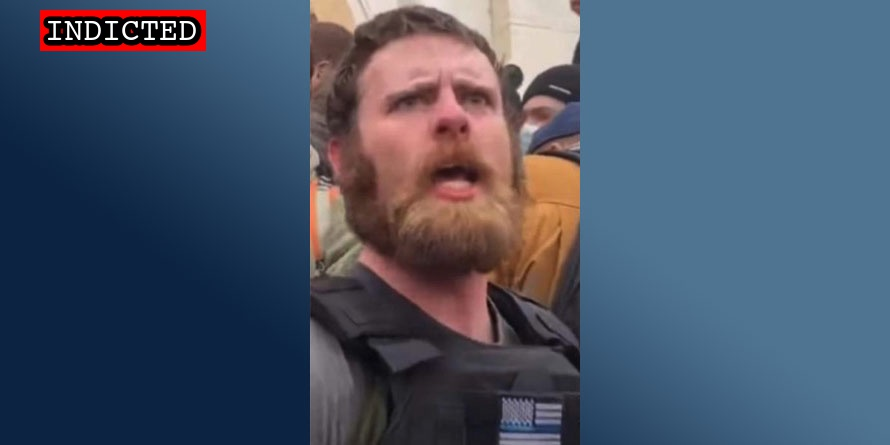
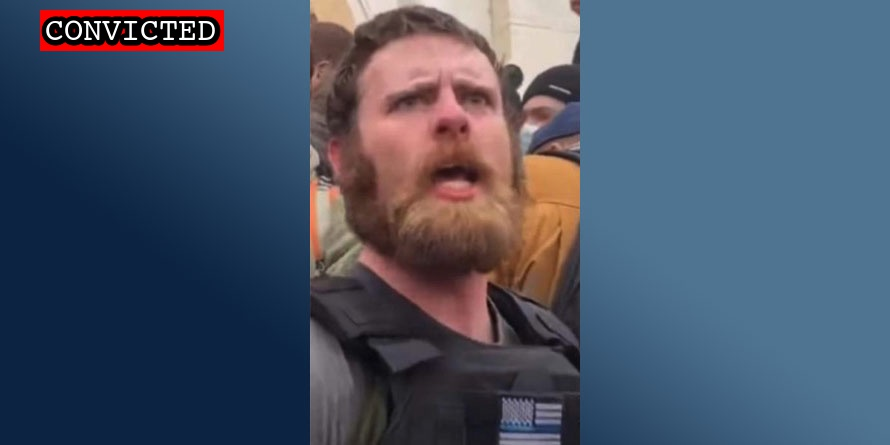
Latest import and sentencing info

Changed region(s): [[0.0303, 0.0, 0.273, 0.1169]]

diff --git a/docs/_suspects/william-reid.md b/docs/_suspects/william-reid.md
@@ -41,32 +41,31 @@ caseName: USA v. REID
 judge: Dabney L. Friedrich
 videos:
 charges:
-  - code: 18 USC § 1752(a)(1)
-    title: Entering a restricted building or grounds
-    url: https://www.law.cornell.edu/uscode/text/18/1752
-    felony: false
-  - code: 18 USC § 1752(a)(2)
-    title: Disorderly and disruptive conduct in a restricted building or grounds
-    url: https://www.law.cornell.edu/uscode/text/18/1752
-    felony: false
-  - code: 40 USC § 5104(e)(2)(D)
-    title: Disorderly Conduct in a Capitol Building
-    url: https://www.law.cornell.edu/uscode/text/40/5104
-    felony: false
-  - code: 40 USC § 5104(e)(2)(G)
-    title: Parading, demonstrating or picketing in a Capitol building
-    url: https://www.law.cornell.edu/uscode/text/40/5104
-    felony: false
-  - code: 18 USC § 1512(c)(1)
-    title: Corruptly Altering, Destroying, Mutilating, or Concealing a Record, Document or Other Object
-    url: https://www.law.cornell.edu/uscode/text/18/1512
-    felony: true
+- code: 18 USC § 1752(a)(1)
+  title: Entering a restricted building or grounds
+  url: https://www.law.cornell.edu/uscode/text/18/1752
+  felony: false
+- code: 18 USC § 1752(a)(2)
+  title: Disorderly and disruptive conduct in a restricted building or grounds
+  url: https://www.law.cornell.edu/uscode/text/18/1752
+  felony: false
+- code: 40 USC § 5104(e)(2)(D)
+  title: Disorderly Conduct in a Capitol Building
+  url: https://www.law.cornell.edu/uscode/text/40/5104
+  felony: false
+- code: 40 USC § 5104(e)(2)(G)
+  title: Parading, demonstrating or picketing in a Capitol building
+  url: https://www.law.cornell.edu/uscode/text/40/5104
+  felony: false
+- code: 18 USC § 1512(c)(1)
+  title: Corruptly Altering, Destroying, Mutilating, or Concealing a Record, Document or Other Object
+  url: https://www.law.cornell.edu/uscode/text/18/1512
+  felony: true
 sentence:
   - 37 months incarceration
   - 3 years probation
   - $2443 restitution
 ---
-
 - [News Report](https://www.nbcmiami.com/news/local/davie-man-arrested-in-capitol-riot-faces-cyberstalking-charge-in-south-florida/2420522/)
 - [Statement of Facts](https://www.justice.gov/usao-dc/case-multi-defendant/file/1528316/download)
 - [Indictment](https://www.justice.gov/usao-dc/case-multi-defendant/file/1392276/download)

diff --git a/docs/_suspects/christian-manley.md b/docs/_suspects/christian-manley.md
@@ -4,11 +4,11 @@ lastName: Manley
 hashtag: BlueLivesWolfman
 aka:
 residence: Alabama
-status: Indicted
+status: Convicted
 date: 2021-10-18
 charged: 2021-10-18
 indicted: 2021-11-19
-convicted:
+convicted: 2022-12-08
 acquitted:
 sentenced:
 dismissed:
@@ -17,7 +17,7 @@ plea_hearing: 2022-12-08
 trial_date:
 trial_type:
 jury_selection:
-sentencing:
+sentencing: 2023-04-25
 status_conference:
 age: 26
 occupation:
@@ -32,7 +32,7 @@ raid:
 perpwalk:
 quote:
 title: Christian Manley charged on October 18, 2021
-description: Click for latest case details. Suspects innocent until proven guilty.
+description: Convicted on December 8, 2022. Click for latest case details.
 author: seditiontrack
 layout: suspect
 published: true
@@ -41,8 +41,15 @@ caseName: USA v. MANLEY
 judge: Tanya S. Chutkan
 videos:
 charges:
+  - code: 18 USC § 111(a)(1) and (b)
+    title: Assaulting, resisting, or impeding certain officers or employees (using a deadly or dangerous weapon)
+    url: https://www.law.cornell.edu/uscode/text/18/111
+    felony: true
 sentence:
 ---
+
 - [News Report](https://www.al.com/news/2021/10/alabama-man-seen-wearing-bulletproof-vest-pepper-spraying-officers-on-jan-6-arrested-in-alaska.html)
 - [Statement of Facts](https://www.justice.gov/usao-dc/case-multi-defendant/file/1458781/download)
 - [Indictment](https://www.justice.gov/usao-dc/case-multi-defendant/file/1458771/download)
+- [Plea Agreement](https://storage.courtlistener.com/recap/gov.uscourts.dcd.237732/gov.uscourts.dcd.237732.38.0.pdf)
+- [Statement of Offense](https://storage.courtlistener.com/recap/gov.uscourts.dcd.237732/gov.uscourts.dcd.237732.39.0.pdf)

diff --git a/docs/_suspects/adam-miller.md b/docs/_suspects/adam-miller.md
@@ -4,11 +4,11 @@ lastName: Miller
 hashtag:
 aka:
 residence: Ohio
-status: Charged
+status: Convicted
 date: 2022-05-26
 charged: 2022-05-26
 indicted:
-convicted:
+convicted: 2022-12-07
 acquitted:
 sentenced:
 dismissed:
@@ -32,7 +32,7 @@ raid:
 perpwalk:
 quote:
 title: Adam Miller charged on 5/26/2022
-description: Click for latest case details. Suspects innocent until proven guilty.
+description: Convicted on December 7, 2022. Click for latest case details.
 author: seditiontrack
 layout: suspect
 published: true
@@ -41,8 +41,14 @@ caseName: USA v. MILLER
 judge: Royce C. Lamberth
 videos:
 charges:
+- code: 40 USC § 5104(e)(2)(G)
+  title: Parading, demonstrating or picketing in a Capitol building
+  url: https://www.law.cornell.edu/uscode/text/40/5104
+  felony: false
 sentence:
 ---
 - [News Report](https://www.beaconjournal.com/story/news/2022/05/26/devin-steiner-wooster-ohio-charged-breaching-us-capitol-jan-6-2021-insurrection/9941693002/)
 - [Statement of Facts](https://www.justice.gov/usao-dc/case-multi-defendant/file/1509951/download)
 - [Information](https://www.justice.gov/usao-dc/case-multi-defendant/file/1509911/download)
+- [Plea Agreement](https://storage.courtlistener.com/recap/gov.uscourts.dcd.243841/gov.uscourts.dcd.243841.33.0.pdf)
+- [Statement of Offense](https://storage.courtlistener.com/recap/gov.uscourts.dcd.243841/gov.uscourts.dcd.243841.34.0.pdf)

diff --git a/docs/_suspects/steven-billingsley.md b/docs/_suspects/steven-billingsley.md
@@ -41,15 +41,14 @@ caseName: USA v. BILLINGSLEY
 judge: Thomas F. Hogan
 videos:
 charges:
-  - code: 18 USC § 1752(a)(2)
-    title: Disorderly and disruptive conduct in a restricted building or grounds
-    url: https://www.law.cornell.edu/uscode/text/18/1752
-    felony: false
+- code: 18 USC § 1752(a)(2)
+  title: Disorderly and disruptive conduct in a restricted building or grounds
+  url: https://www.law.cornell.edu/uscode/text/18/1752
+  felony: false
 sentence:
   - 2 years probation
   - $500 restitution
 ---
-
 - [News Report](https://www.wtrf.com/jefferson-county/jefferson-county-man-charged-with-crimes-related-to-the-jan-6-capitol-riot/)
 - [Statement of Facts](https://www.justice.gov/usao-dc/case-multi-defendant/file/1457636/download)
 - [Information](https://www.justice.gov/usao-dc/case-multi-defendant/file/1526451/download)

diff --git a/docs/_suspects/lewis-cantwell.md b/docs/_suspects/lewis-cantwell.md
@@ -41,13 +41,12 @@ caseName: USA v. CANTWELL
 judge: Colleen Kollar-Kotelly
 videos:
 charges:
-  - code: 18 USC § 231(a)(3)
-    title: Obstruction of Law Enforcement During Civil Disorder
-    url: https://www.law.cornell.edu/uscode/text/18/231
-    felony: true
+- code: 18 USC § 231(a)(3)
+  title: Obstruction of Law Enforcement During Civil Disorder
+  url: https://www.law.cornell.edu/uscode/text/18/231
+  felony: true
 sentence:
 ---
-
 - [News Report](https://www.smokymountainnews.com/news/item/30846-sylva-man-arrested-in-connection-with-capitol-riots)
 - [Complaint](https://extremism.gwu.edu/sites/g/files/zaxdzs2191/f/Lewis%20Easton%20Cantwell%20Indictment.pdf)
 - [Indictment](https://www.justice.gov/usao-dc/case-multi-defendant/file/1378511/download)

diff --git a/docs/_suspects/nicholas-decarlo.md b/docs/_suspects/nicholas-decarlo.md
@@ -55,3 +55,4 @@ sentence:
 - [Indictment](https://www.justice.gov/usao-dc/case-multi-defendant/file/1533926/download)
 - [Plea Agreement](https://www.justice.gov/usao-dc/case-multi-defendant/file/1533931/download)
 - [Statement of Offense](https://www.justice.gov/usao-dc/case-multi-defendant/file/1533936/download)
+- [Sentencing Memo](https://storage.courtlistener.com/recap/gov.uscourts.dcd.227062/gov.uscourts.dcd.227062.94.0.pdf)

diff --git a/docs/_suspects/john-nassif.md b/docs/_suspects/john-nassif.md
@@ -14,10 +14,10 @@ sentenced:
 dismissed:
 deceased:
 plea_hearing:
-trial_date: 2022-12-08
+trial_date: 2022-12-06
 trial_type: Bench Trial
 jury_selection:
-sentencing: 2022-03-13
+sentencing: 2023-03-13
 status_conference:
 age: 55
 occupation:

diff --git a/docs/_suspects/clifford-mackrell.md b/docs/_suspects/clifford-mackrell.md
@@ -18,7 +18,7 @@ trial_date: 2023-05-10
 trial_type: Jury Trial
 jury_selection:
 sentencing:
-status_conference: 2022-12-08
+status_conference:
 age: 20
 occupation:
 affiliations:

diff --git a/docs/_suspects/karegan-bostic.md b/docs/_suspects/karegan-bostic.md
@@ -18,7 +18,7 @@ trial_date:
 trial_type:
 jury_selection:
 sentencing: 2023-03-09
-status_conference: 2022-12-08
+status_conference:
 age:
 occupation:
 affiliations:
